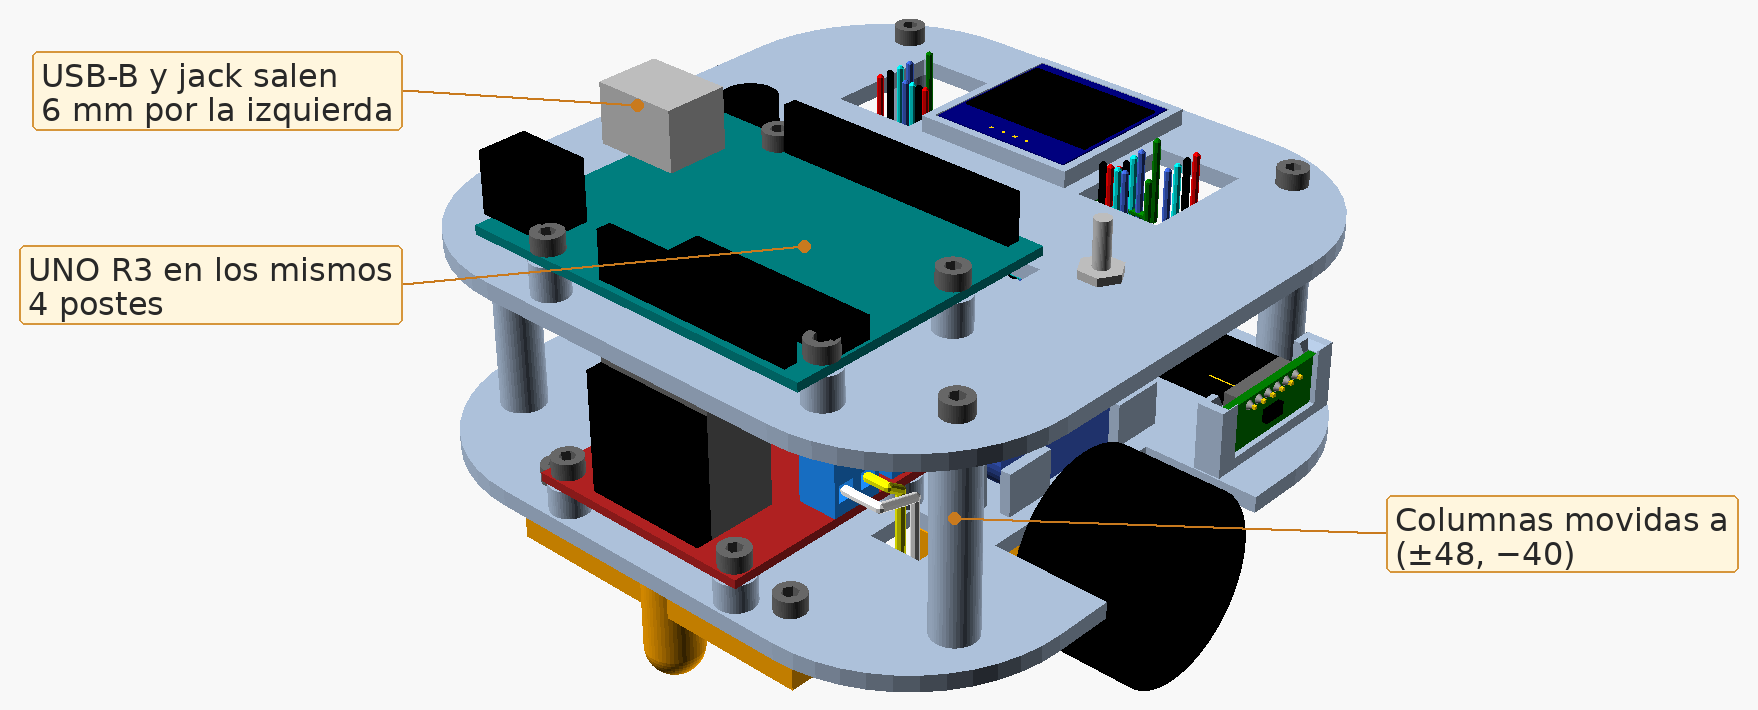
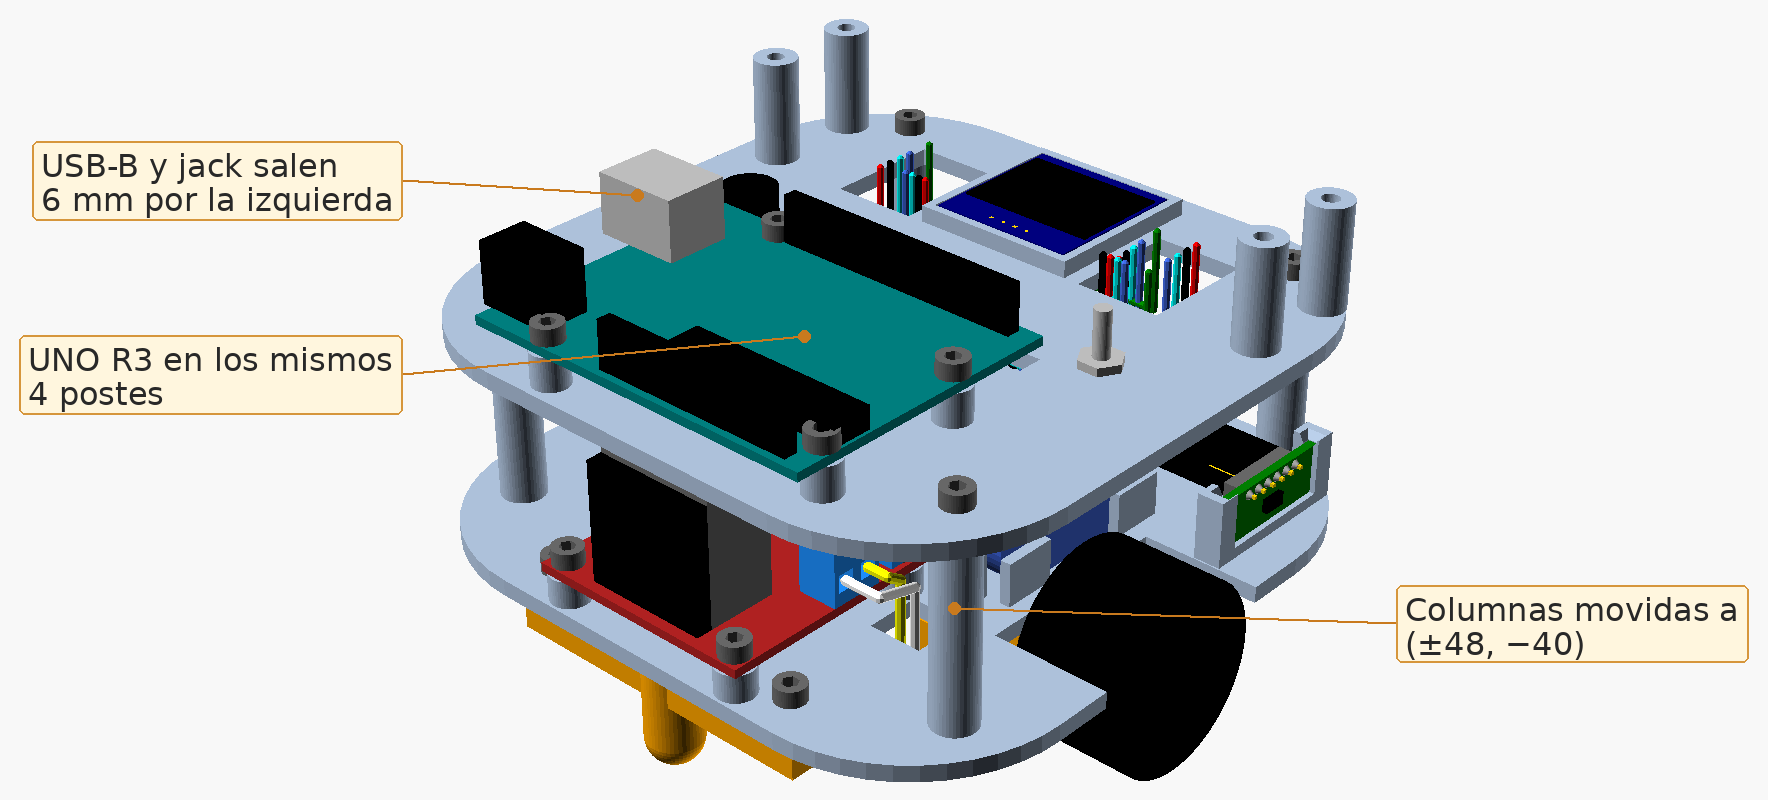
Concepto UNO Q: repisa para hub USB y OLED en el mastil
Claude-Session: https://claude.ai/code/session_017eD8xWXnvZZ2v6m3n2fvhH

diff --git a/chasis/renders.py b/chasis/renders.py
@@ -151,14 +151,16 @@ VISTAS = {
     "unoq_iso": ({"PLACA": "unoq"}, (300, -330, 330, 0, 5, 85), [
         ("Arduino UNO Q\n(4 M3×8 a insertos)", (10, -31, 72), (-250, 150)),
         ("Cámara UVC 32 × 32\nlente M12 gran angular", (0, 30, 165), (-260, -60)),
-        ("Mástil PTR 10 o 15\n(medida pendiente)", (7.5, 10.5, 110), (-260, 40)),
+        ("Mástil PTR 10 o 15\n(medida pendiente)", (7.5, 10.5, 115), (-260, 40)),
+        ("Hub USB en repisa\n(4 M3×8 a insertos)", (20, 39.5, 96.5), (240, -40)),
+        ("OLED atrás del mástil", (0, 1, 100), (-240, -20)),
         ("USB-C en ángulo", (-38, -20, 74), (-220, 60)),
-        ("OLED", (0, 39.4, 66), (230, 60)),
     ]),
     "unoq_lado": ({"PLACA": "unoq"}, (-520, 70, 150, 0, 90, 85), [
         ("Lente a 150 mm,\n25° hacia abajo", (0, 30, 150), (220, -120)),
         ("Campo de visión\n≈ 100° × 75°", (0, 139, 99), (-200, -160)),
         ("El piso se ve desde\n≈ 3 cm frente al robot", (0, 92, 0), (-200, 60)),
+        ("Hub: queda bajo\nel campo de visión", (0, 54, 96), (230, 120)),
     ]),
     "uno_r3": ({"PLACA": "uno_r3"}, (300, -330, 300, 0, 0, 55), [
         ("UNO R3 en los mismos\n4 postes", (10, -31, 72), (-250, 150)),
